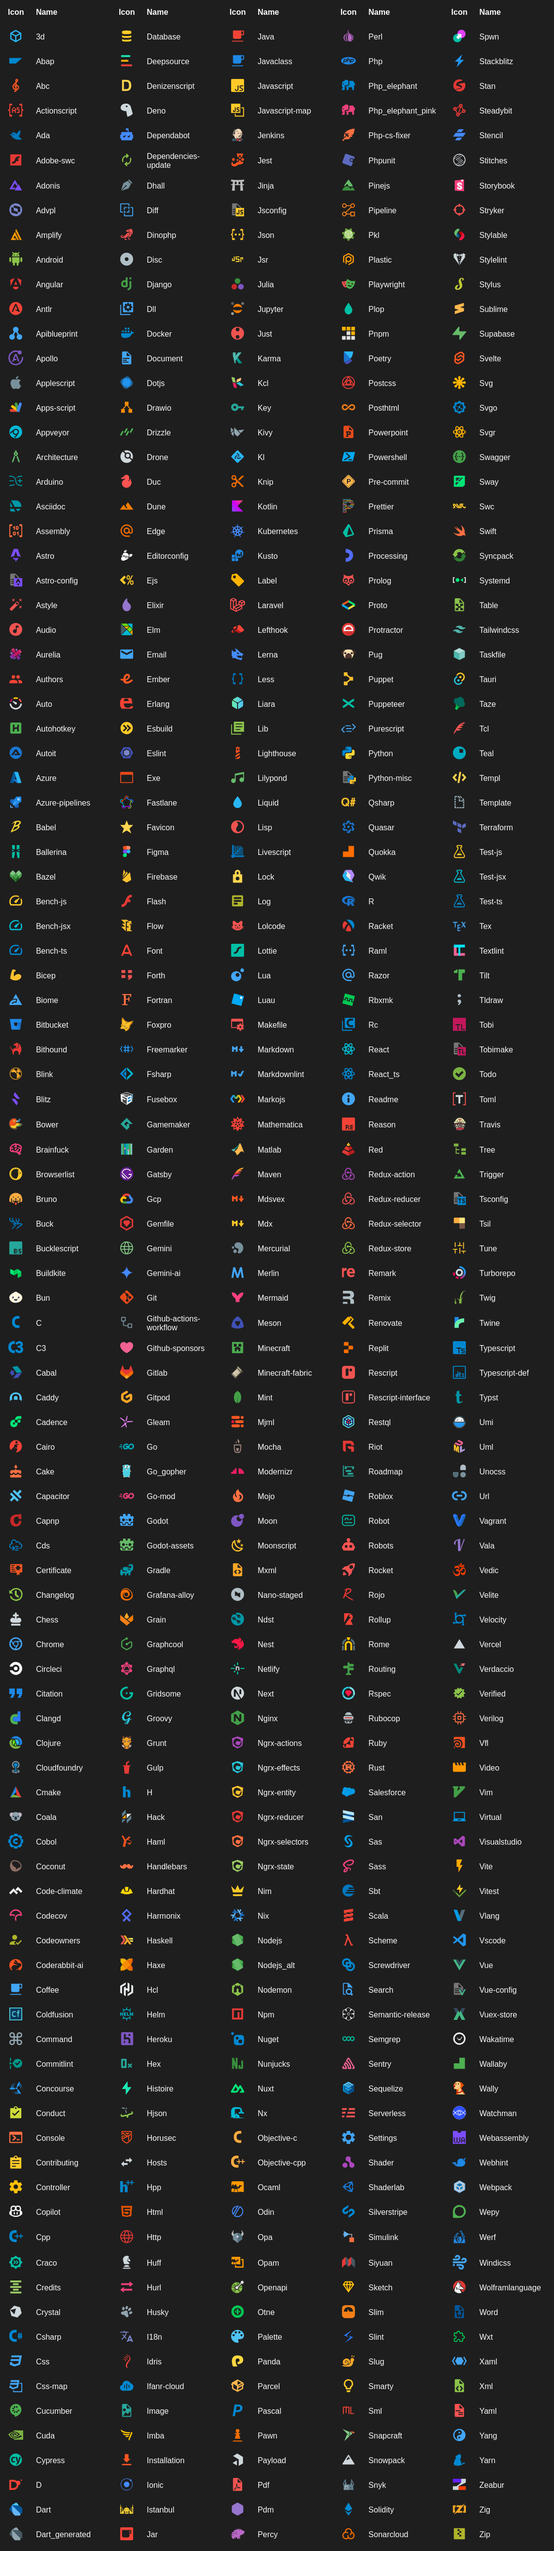
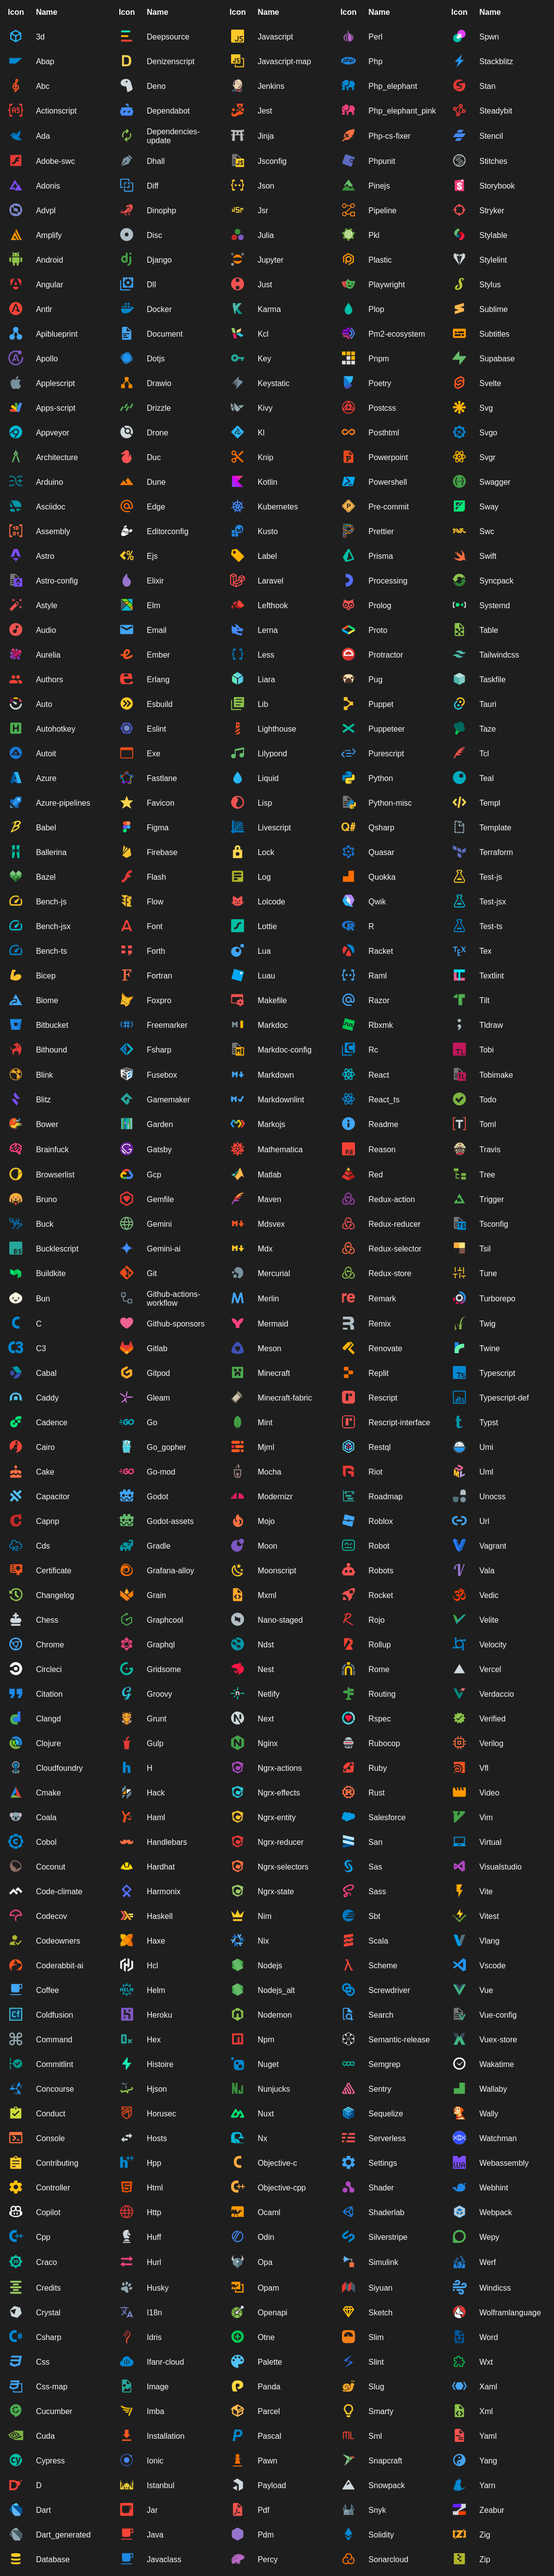
release: 🔖 v1.18.0

diff --git a/CHANGELOG.md b/CHANGELOG.md
@@ -3,10 +3,37 @@
  All notable changes to this project will be documented in this file. Dates are displayed in UTC.
 
  
+#### [v1.18.0](https://github.com/lucodear/lucodear-icons/compare/v1.17.0...v1.18.0) 
+
+> December 13, 2024 
+
+- ci: 🔄 downgrade relase action to ubuntu 22.04 [`1c34d0ae`](https://github.com/lucodear/lucodear-icons/commit/1c34d0ae)
+- chore: 🧹 add log to contributors image when errors [`9bb64a3e`](https://github.com/lucodear/lucodear-icons/commit/9bb64a3e)
+- feat: ✨ keystatic + mdoc file icons [`#2744`](https://github.com/lucodear/lucodear-icons/pull/2744)
+- fix(workflows): invalid command argument in color check workflow [`692644be`](https://github.com/lucodear/lucodear-icons/commit/692644be)
+- feat: use plugins icon for addins directory [`#2743`](https://github.com/lucodear/lucodear-icons/pull/2743)
+- chore(deps): update dependency svg-color-linter to v3 [`#2741`](https://github.com/lucodear/lucodear-icons/pull/2741)
+- feat: :technologist: add husky pre-commit hooks [`#2720`](https://github.com/lucodear/lucodear-icons/pull/2720)
+- feat: enhance textlint configuration files [`#2740`](https://github.com/lucodear/lucodear-icons/pull/2740)
+- feat: add `.do` file association for `tcl` icon [`#2739`](https://github.com/lucodear/lucodear-icons/pull/2739)
+- chore(workflows): update workflow paths [`4e688982`](https://github.com/lucodear/lucodear-icons/commit/4e688982)
+- chore(deps): update actions/attest-build-provenance action to v2.1.0 [`#2737`](https://github.com/lucodear/lucodear-icons/pull/2737)
+- feat: add 'cypher' and 'cipher' folder names to the folder-secure icon [`#2369`](https://github.com/lucodear/lucodear-icons/pull/2369)
+- feat: pm2 ecosystem file icon [`#2708`](https://github.com/lucodear/lucodear-icons/pull/2708)
+- ci: ♻ use limited file scope for triggering build workflow [`#2727`](https://github.com/lucodear/lucodear-icons/pull/2727)
+- chore(deps): update dependency markdownlint-cli to ^0.43.0 [`#2734`](https://github.com/lucodear/lucodear-icons/pull/2734)
+- chore(deps): update dependency bun to v1.1.38 [`#2719`](https://github.com/lucodear/lucodear-icons/pull/2719)
+- feat: ✨ add markdownlint automatization [`#2709`](https://github.com/lucodear/lucodear-icons/pull/2709)
+- feat: 🏞 add `subtitles` icon [`#2732`](https://github.com/lucodear/lucodear-icons/pull/2732)
+- chore(deps): update actions/attest-build-provenance action [`#2733`](https://github.com/lucodear/lucodear-icons/pull/2733)
+- chore(release): v5.15.0 [`16099413`](https://github.com/lucodear/lucodear-icons/commit/16099413)
+- chore(deps): update actions/attest-build-provenance action to v2 [`#2730`](https://github.com/lucodear/lucodear-icons/pull/2730)
+ 
 #### [v1.17.0](https://github.com/lucodear/lucodear-icons/compare/v1.16.2...v1.17.0) 
 
 > December 8, 2024 
 
+- release: 🔖 v1.17.0 [`56882402`](https://github.com/lucodear/lucodear-icons/commit/56882402)
 - feat: ✨ keystatic [`4f002bcb`](https://github.com/lucodear/lucodear-icons/commit/4f002bcb)
  
 #### [v1.16.2](https://github.com/lucodear/lucodear-icons/compare/v1.16.1...v1.16.2) 
